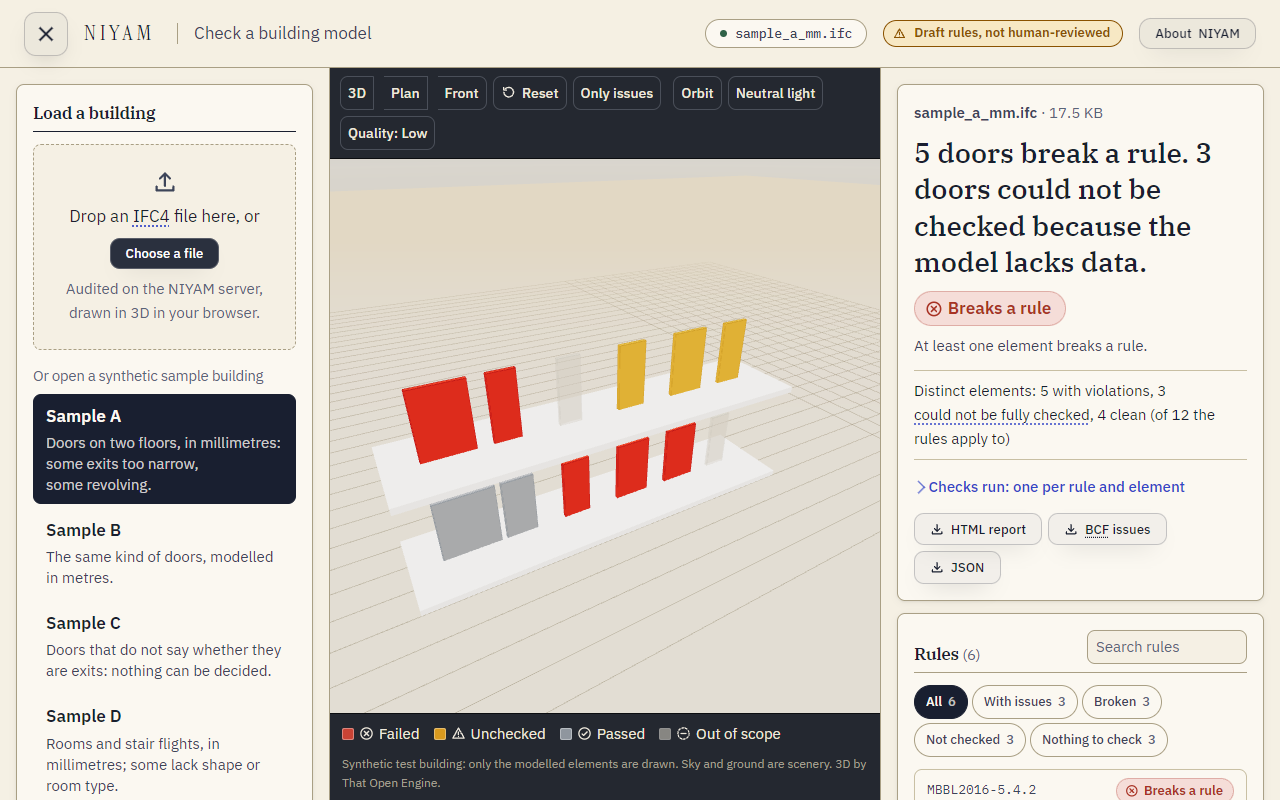
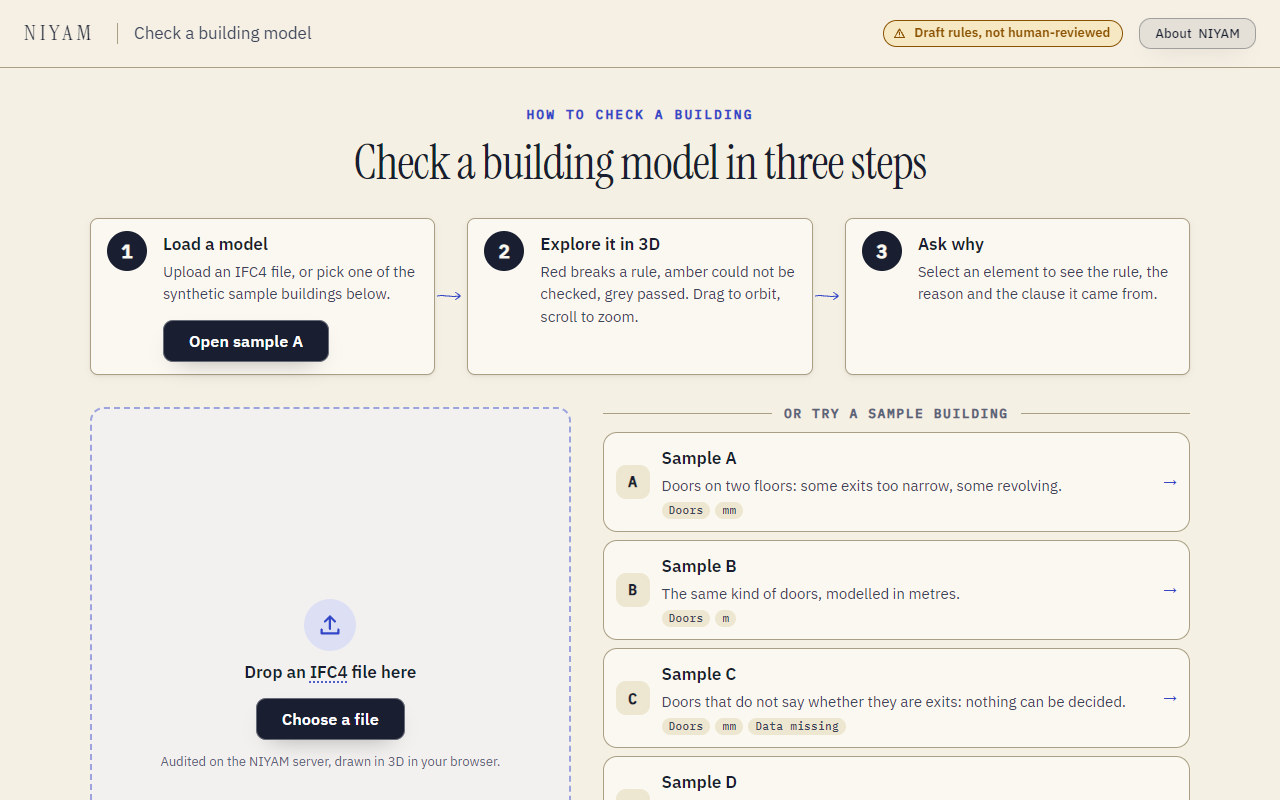
Sheet A-09: show the one-page dashboard (start screen, verdict, selected door)
The demo card stack showed the old three-column dashboard. It now has three images of the
current app, generated by the existing e2e script (shots.spec "demo images") on main after the
millimetre fix, one Playwright run at a time:
- demo-1-load.png: the start screen (steps, drop zone, samples)
- demo-2-verdict.png: the plain-words verdict above the 3D view
- demo-3-select.png: a failing door selected, with its detail panel

The step text and titles match. demo-2-select.png and demo-3-issues.png are removed; nothing
references them.

diff --git a/frontend/e2e/shots.spec.ts b/frontend/e2e/shots.spec.ts
@@ -46,20 +46,21 @@ test.describe("screenshots", () => {
   });
 
   test("demo images for the landing page (sample A)", async ({ page }) => {
-    await page.addInitScript(() => { try { window.localStorage.setItem("niyam.tour.done", "1"); } catch { /* ignore */ } });
     await page.setViewportSize({ width: 1280, height: 800 });
     await page.goto("/app");
-    await openSample(page, /Sample A/);
+    await expect(page.getByTestId("empty-state")).toBeVisible();
+    await page.waitForTimeout(600);
     await page.screenshot({ path: `${DEMO}/demo-1-load.png` });
+    await openSample(page, /Sample A/);
+    await page.evaluate(() => window.scrollTo(0, 0));
+    await page.waitForTimeout(400);
+    await page.screenshot({ path: `${DEMO}/demo-2-verdict.png` });
     await page.locator("li.rule > details > summary").nth(1).click();
     await page.getByRole("button", { name: /A-G-03 narrow exit/ }).click();
-    await page.waitForTimeout(1500);
-    await page.screenshot({ path: `${DEMO}/demo-2-select.png` });
+    await page.locator(".dash-stage").scrollIntoViewIfNeeded();
+    await page.evaluate(() => document.querySelector(".dash-stage")!.scrollIntoView({ block: "start" }));
+    await page.waitForTimeout(1800);
+    await page.screenshot({ path: `${DEMO}/demo-3-select.png` });
     await page.screenshot({ path: `${SHOTS}/app-selected.png` });
-    await page.getByRole("button", { name: "Back to rules" }).click();
-    await page.getByRole("button", { name: "Only issues" }).click();
-    await page.waitForTimeout(1200);
-    await page.screenshot({ path: `${DEMO}/demo-3-issues.png` });
-    await page.screenshot({ path: `${SHOTS}/app-only-issues.png` });
   });
 });

diff --git a/frontend/src/landing/Landing.tsx b/frontend/src/landing/Landing.tsx
@@ -596,11 +596,11 @@ const icon = (d: string) => (
 );
 const DEMO = [
   { src: "/screens/demo-1-load.png", title: "Load a building", icon: icon("M8 11V2.5M4.5 6 8 2.5 11.5 6M2.5 10.5v3h11v-3"),
-    step: "Choose sample A. The server audits it and the model appears on the light table." },
-  { src: "/screens/demo-2-select.png", title: "Open a failing door", icon: icon("M3 2.5v11l3-3 2 3.5 1.5-.8-2-3.4H11L3 2.5Z"),
+    step: "Drop an IFC4 file, or choose sample A. The server audits it in a moment." },
+  { src: "/screens/demo-2-verdict.png", title: "Read the verdict", icon: icon("M2 3h12L9.5 8.5V13l-3-1.5V8.5L2 3Z"),
+    step: "The answer comes first, in plain words. Below it the 3D view colours every element by verdict." },
+  { src: "/screens/demo-3-select.png", title: "Open a failing door", icon: icon("M3 2.5v11l3-3 2 3.5 1.5-.8-2-3.4H11L3 2.5Z"),
     step: "Select a red door. The panel says which rule it breaks, why, and quotes the clause." },
-  { src: "/screens/demo-3-issues.png", title: "Show only issues", icon: icon("M2 3h12L9.5 8.5V13l-3-1.5V8.5L2 3Z"),
-    step: "Show only issues to hide everything that passed, then export the HTML report or BCF." },
 ];
 
 function DemoSheet() {
